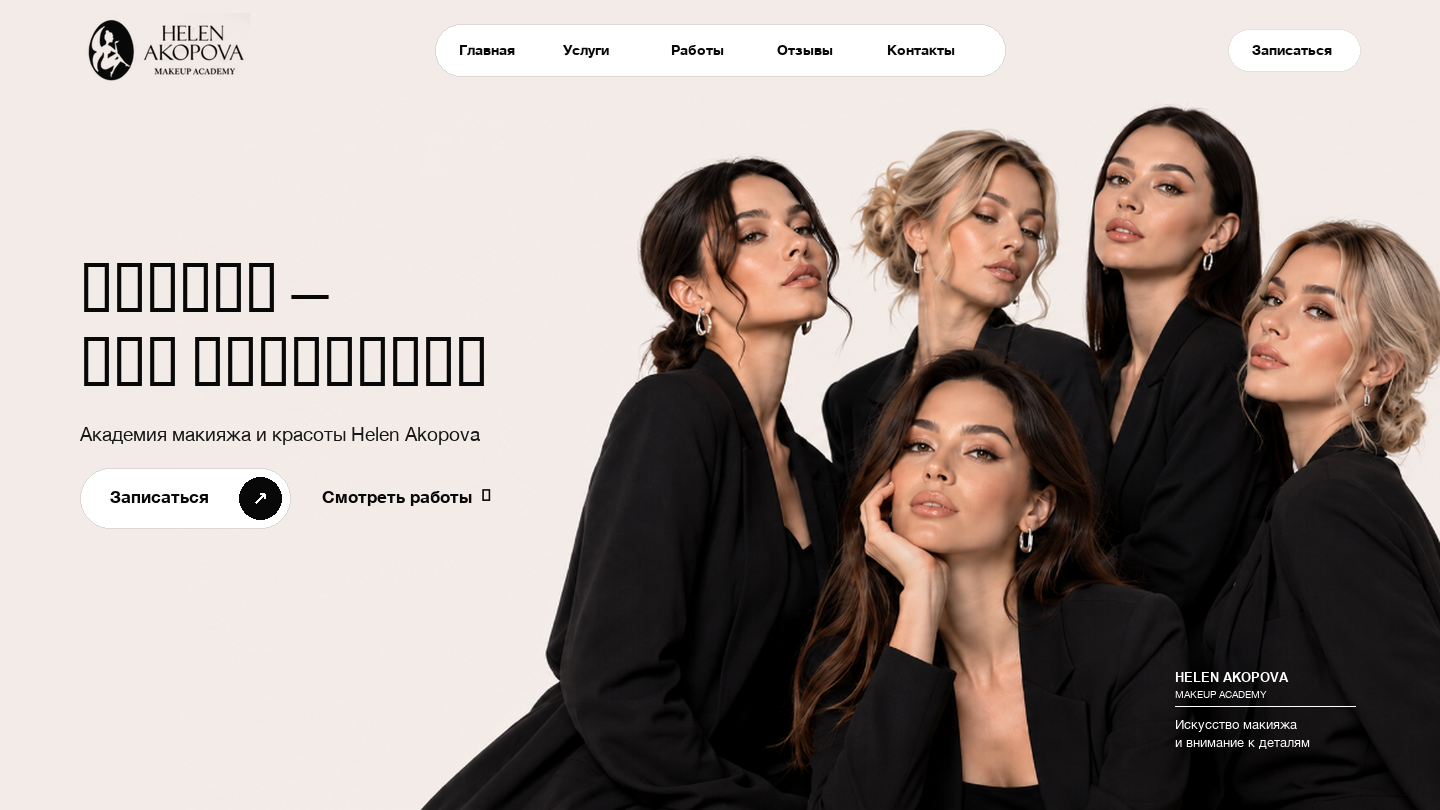
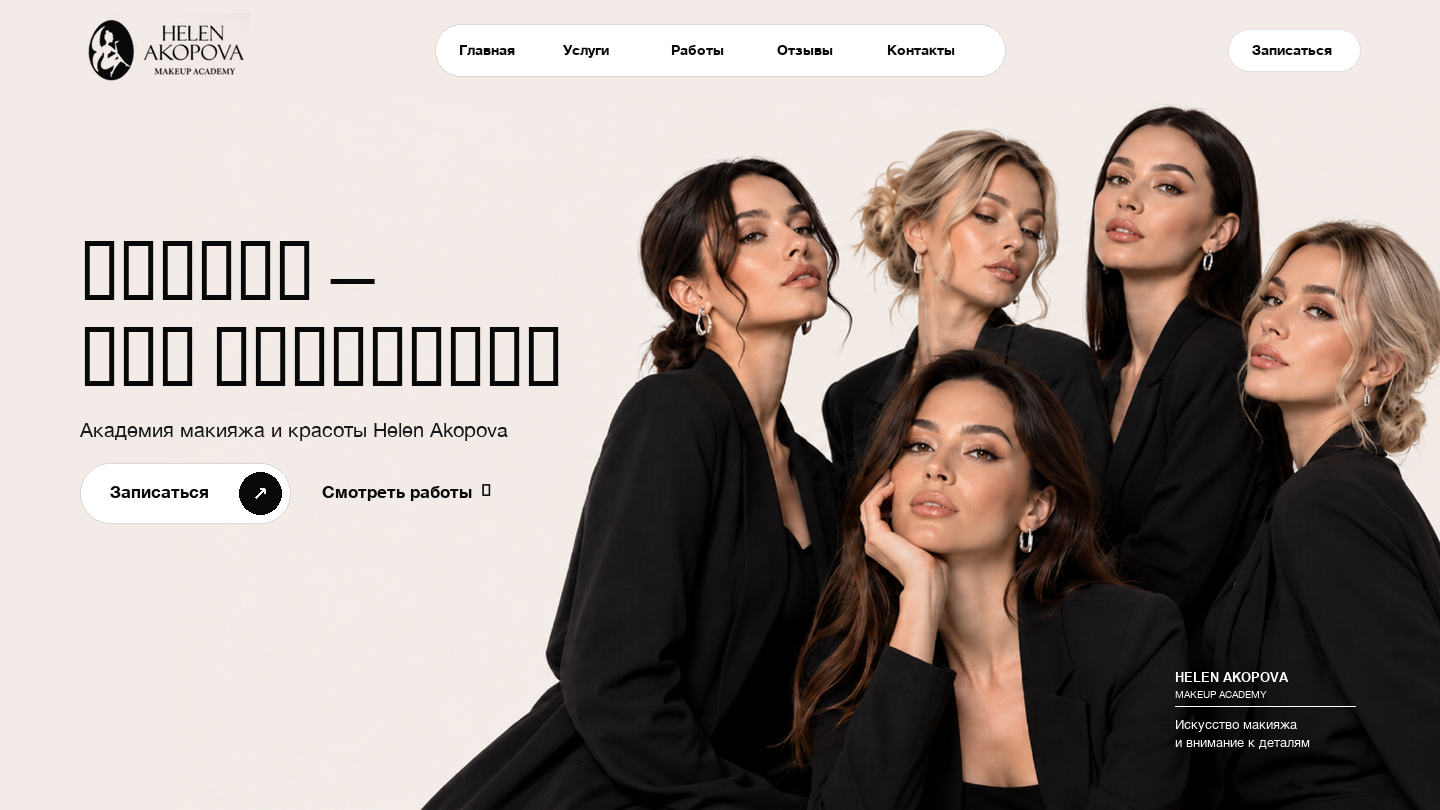
feat: enlarge headline on desktop and mobile, fill mobile viewport without empty space

diff --git a/style.css b/style.css
@@ -499,7 +499,7 @@ img {
   padding-bottom: 40px;
   z-index: 10;
   position: relative;
-  max-width: 580px;
+  max-width: 660px;
   flex-shrink: 0;
   animation: editorialFadeUp 0.95s cubic-bezier(0.16, 1, 0.3, 1) 0.12s both;
 }
@@ -508,13 +508,13 @@ img {
   margin-bottom: 36px;
 }
 
-/* Главный заголовок: Bodoni Moda Regular, строго 2 нормальные сбалансированные строки */
+/* Главный заголовок: Bodoni Moda Regular, строго 2 нормальные сбалансированные строки (увеличенный масштаб) */
 .hero-title {
   font-family: var(--font-serif);
   font-weight: 400;
-  font-size: clamp(2.8rem, 4.5vw, 4.8rem);
-  line-height: 1.08;
-  letter-spacing: -0.02em;
+  font-size: clamp(3.4rem, 5.2vw, 5.4rem);
+  line-height: 1.04;
+  letter-spacing: -0.025em;
   color: var(--color-black-deep);
   margin-bottom: 24px;
 }
@@ -1158,15 +1158,15 @@ img {
 
   .hero-section {
     flex-direction: column;
-    justify-content: flex-start;
-    min-height: auto;
+    justify-content: space-between;
+    min-height: calc(100dvh - var(--header-height));
     height: auto;
     width: 100%;
   }
 
   .hero-left-content {
     position: static;
-    padding: calc(var(--header-height) + 34px) var(--screen-padding-h) 0;
+    padding: calc(var(--header-height) + 44px) var(--screen-padding-h) 0;
     max-width: 100%;
     width: 100%;
     order: 1;
@@ -1176,21 +1176,21 @@ img {
   }
 
   .hero-typography-block {
-    margin-bottom: 20px;
+    margin-bottom: 22px;
     width: 100%;
   }
 
   .hero-title {
-    font-size: clamp(2.1rem, 7.2vw, 2.6rem);
-    line-height: 1.05;
-    margin-bottom: 12px;
-    letter-spacing: -0.015em;
+    font-size: clamp(2.8rem, 8vw, 3.5rem);
+    line-height: 1.02;
+    margin-bottom: 14px;
+    letter-spacing: -0.02em;
   }
 
   .hero-subtitle {
     font-size: 14.5px;
     line-height: 1.35;
-    margin-bottom: 20px;
+    margin-bottom: 22px;
     color: var(--color-text-sub);
   }
 
@@ -1201,7 +1201,7 @@ img {
     justify-content: center;
     width: 100%;
     gap: 12px;
-    margin-bottom: 16px;
+    margin-bottom: 18px;
   }
 
   .hero-primary-btn {
@@ -1250,24 +1250,25 @@ img {
     right: auto;
     bottom: auto;
     width: 100%;
-    flex: none;
+    flex: 1;
     display: flex;
-    align-items: flex-start;
+    align-items: flex-end;
     justify-content: center;
     min-height: auto;
     height: auto;
     order: 2;
-    margin-top: 16px;
-    margin-bottom: 24px;
-    padding: 0 var(--screen-padding-h);
+    margin-top: 14px;
+    margin-bottom: 0;
+    padding: 0;
+    overflow: hidden;
   }
 
   .hero-image-stage {
     position: relative;
     width: 100%;
-    height: auto;
+    height: 100%;
     display: flex;
-    align-items: flex-start;
+    align-items: flex-end;
     justify-content: center;
   }
 
@@ -1285,20 +1286,24 @@ img {
 
   .hero-picture {
     position: relative;
-    display: block;
+    display: flex;
+    align-items: flex-end;
+    justify-content: center;
     width: 100%;
-    max-width: 480px;
-    height: auto;
+    max-width: 520px;
+    height: 100%;
   }
 
   .hero-group-photo {
     width: 100%;
-    max-width: 480px;
+    max-width: 520px;
     height: auto;
+    max-height: 480px;
     object-fit: contain;
-    object-position: center top;
+    object-position: center bottom;
     display: block;
-    transform: none;
+    transform: scale(1.08);
+    transform-origin: center bottom;
     -webkit-mask-image: linear-gradient(to bottom, #000 80%, rgba(0, 0, 0, 0.85) 90%, transparent 100%);
     mask-image: linear-gradient(to bottom, #000 80%, rgba(0, 0, 0, 0.85) 90%, transparent 100%);
   }
@@ -1323,29 +1328,29 @@ img {
   }
 
   .hero-left-content {
-    padding: calc(var(--header-height) + 30px) var(--screen-padding-h) 0;
+    padding: calc(var(--header-height) + 38px) var(--screen-padding-h) 0;
   }
 
   .hero-title {
-    font-size: clamp(2.05rem, 6.8vw, 2.35rem);
-    line-height: 1.05;
-    margin-bottom: 10px;
+    font-size: clamp(2.45rem, 8.4vw, 2.95rem);
+    line-height: 1.02;
+    margin-bottom: 12px;
   }
 
   .hero-subtitle {
-    font-size: 13.5px;
+    font-size: 14px;
     line-height: 1.35;
-    margin-bottom: 18px;
+    margin-bottom: 20px;
   }
 
   .hero-cta-group {
     gap: 12px;
-    margin-bottom: 12px;
+    margin-bottom: 16px;
   }
 
   .hero-primary-btn {
     max-width: 100%;
-    height: 50px;
+    height: 52px;
     font-size: 15px;
   }
 
@@ -1355,9 +1360,9 @@ img {
   }
 
   .hero-right-visual {
-    margin-top: 14px;
-    margin-bottom: 20px;
-    padding: 0 10px;
+    margin-top: 8px;
+    margin-bottom: 0;
+    padding: 0;
   }
 
   .hero-picture {
@@ -1366,7 +1371,9 @@ img {
 
   .hero-group-photo {
     max-width: 100%;
-    transform: none;
+    max-height: 440px;
+    transform: scale(1.1);
+    transform-origin: center bottom;
   }
 }
 

diff --git a/generate_renders.py b/generate_renders.py
@@ -117,24 +117,24 @@ def render_desktop_exact(output_filename):
 
     # ---------------- HERO LEFT SECTION ----------------
     content_x = 80
-    y_cursor = 250
+    y_cursor = 225
 
-    # Headline in 2 lines: normal, balanced, editorial (~66px)
+    # Headline in 2 lines: enlarged, bold, authoritative editorial (~78px)
     try:
-        f_headline = ImageFont.truetype(SERIF_BODONI, 66, index=0)
+        f_headline = ImageFont.truetype(SERIF_BODONI, 78, index=0)
     except:
-        f_headline = ImageFont.truetype(SERIF_GEORGIA, 64)
+        f_headline = ImageFont.truetype(SERIF_GEORGIA, 76)
 
     draw.text((content_x, y_cursor), "Макияж —", font=f_headline, fill=COLOR_BLACK)
-    y_cursor += 74
+    y_cursor += 86
     draw.text((content_x, y_cursor), "это искусство", font=f_headline, fill=COLOR_BLACK)
     
-    # Subtitle: Manrope Regular (~19px)
-    y_cursor += 98
+    # Subtitle: Manrope Regular (~20px)
+    y_cursor += 106
     try:
-        f_sub = ImageFont.truetype(SANS_REG, 19)
+        f_sub = ImageFont.truetype(SANS_REG, 20)
     except:
-        f_sub = ImageFont.truetype(SANS_REG, 18)
+        f_sub = ImageFont.truetype(SANS_REG, 19)
     draw.text((content_x, y_cursor), "Академия макияжа и красоты Helen Akopova", font=f_sub, fill=COLOR_SUBTITLE)
 
     # ---------------- HERO CTA GROUP: ДВЕ КНОПКИ (Фото 6 и 7) ----------------
@@ -218,29 +218,29 @@ def render_mobile_exact(output_filename):
     draw.line([(ham_x + 12, ham_y + 15), (ham_x + 28, ham_y + 15)], fill=COLOR_BLACK, width=2)
     draw.line([(ham_x + 12, ham_y + 23), (ham_x + 28, ham_y + 23)], fill=COLOR_BLACK, width=2)
 
-    # Mobile Typography (Shifted down by 18px per user request)
-    y = header_h + 34
+    # Mobile Typography (Enlarged and shifted down further to fill the screen)
+    y = header_h + 44
     try:
-        f_title_m = ImageFont.truetype(SERIF_BODONI, 36, index=0)
+        f_title_m = ImageFont.truetype(SERIF_BODONI, 42, index=0)
     except:
-        f_title_m = ImageFont.truetype(SERIF_GEORGIA, 35)
+        f_title_m = ImageFont.truetype(SERIF_GEORGIA, 40)
         
     draw.text((20, y), "Макияж —", font=f_title_m, fill=COLOR_BLACK)
-    y += 38
+    y += 44
     draw.text((20, y), "это искусство", font=f_title_m, fill=COLOR_BLACK)
     
-    y += 44
+    y += 50
     try:
-        f_sub_m = ImageFont.truetype(SANS_REG, 13)
+        f_sub_m = ImageFont.truetype(SANS_REG, 14)
     except:
         f_sub_m = ImageFont.truetype(SANS_REG, 13)
     draw.text((20, y), "Академия макияжа и красоты Helen Akopova", font=f_sub_m, fill=COLOR_SUBTITLE)
-    y += 24
+    y += 28
 
     # Mobile Button Group: Записаться (по центру) + Смотреть работы (по центру)
     btn_w = W - 40
-    btn_h = 50
-    draw_rounded_rect(draw, [20, y, 20 + btn_w, y + btn_h], radius=25, fill=COLOR_WHITE, outline=COLOR_BORDER, width=1)
+    btn_h = 52
+    draw_rounded_rect(draw, [20, y, 20 + btn_w, y + btn_h], radius=26, fill=COLOR_WHITE, outline=COLOR_BORDER, width=1)
     try:
         f_btn_m = ImageFont.truetype(SANS_MED, 15, index=1)
     except:
@@ -249,29 +249,30 @@ def render_mobile_exact(output_filename):
     txt_cta = "Записаться"
     bbox_cta = draw.textbbox((0, 0), txt_cta, font=f_btn_m)
     tw_cta = bbox_cta[2] - bbox_cta[0]
-    draw.text((20 + (btn_w - tw_cta) // 2, y + 15), txt_cta, font=f_btn_m, fill=COLOR_BLACK)
+    draw.text((20 + (btn_w - tw_cta) // 2, y + 16), txt_cta, font=f_btn_m, fill=COLOR_BLACK)
     
     # Circle arrow on right inside button
-    m_cir_r = 18
+    m_cir_r = 19
     m_cir_cx = 20 + btn_w - 7 - m_cir_r
-    m_cir_cy = y + 25
+    m_cir_cy = y + 26
     draw.ellipse([m_cir_cx - m_cir_r, m_cir_cy - m_cir_r, m_cir_cx + m_cir_r, m_cir_cy + m_cir_r], fill=COLOR_BLACK)
     draw_arrow_ne(draw, m_cir_cx, m_cir_cy, size=4, color=COLOR_WHITE, width=2)
-    y += btn_h + 12
+    y += btn_h + 14
 
     # Secondary action link centered below button
     txt_sec = "Смотреть работы →"
     bbox_sec = draw.textbbox((0, 0), txt_sec, font=f_btn_m)
     tw_sec = bbox_sec[2] - bbox_sec[0]
     draw.text(((W - tw_sec) // 2, y), txt_sec, font=f_btn_m, fill=COLOR_BLACK)
-    y += 26
 
-    # Group Photo on Mobile: placed right under buttons without empty gap
+    # Group Photo on Mobile: fills the entire bottom portion of the screen
     grp_m = Image.open("assets/group-girls-mobile.png").convert("RGBA")
-    pw = W
+    pw = int(W * 1.08)
     ph = int(grp_m.height * (pw / grp_m.width))
     grp_scaled = grp_m.resize((pw, ph), Image.Resampling.LANCZOS)
-    canvas.alpha_composite(grp_scaled, (0, y))
+    paste_x = (W - pw) // 2
+    paste_y = H - ph
+    canvas.alpha_composite(grp_scaled, (paste_x, paste_y))
 
     # Smooth bottom transition overlay
     fade_overlay = Image.new("RGBA", (W, 40), (0, 0, 0, 0))
@@ -279,7 +280,7 @@ def render_mobile_exact(output_filename):
     for fy in range(40):
         alpha = int(255 * ((fy / 39) ** 1.3))
         d_fade.line([(0, fy), (W, fy)], fill=BG_IVORY + (alpha,))
-    canvas.alpha_composite(fade_overlay, (0, y + ph - 40))
+    canvas.alpha_composite(fade_overlay, (0, H - 40))
 
     final_rgb = canvas.convert("RGB")
     final_rgb.save(output_filename, quality=96)
